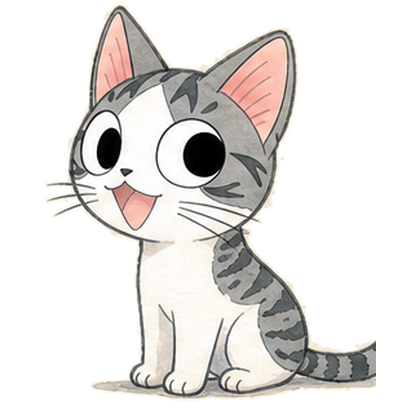
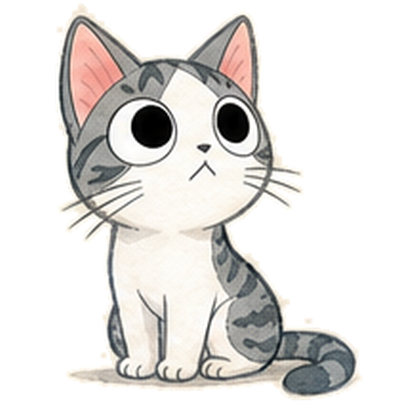
Polish pet proportions typography and ground contact

diff --git a/Sources/TianMiao/PetController.swift b/Sources/TianMiao/PetController.swift
@@ -139,7 +139,20 @@ final class PetController: NSObject {
         for menuItem in menu.items where menuItem.action != nil && menuItem.target == nil {
             menuItem.target = self
         }
+        applyCuteMenuTypography(to: menu)
         return menu
+    }
+
+    private func applyCuteMenuTypography(to menu: NSMenu) {
+        let font = NSFont(name: "Wawati SC", size: 14)
+            ?? NSFont(name: "Hannotate SC", size: 13.5)
+            ?? NSFont.systemFont(ofSize: 13.5, weight: .semibold)
+        for menuItem in menu.items where !menuItem.isSeparatorItem && !menuItem.title.isEmpty {
+            menuItem.attributedTitle = NSAttributedString(
+                string: menuItem.title,
+                attributes: [.font: font]
+            )
+        }
     }
 
     private func item(_ title: String, action: Selector, checked: Bool) -> NSMenuItem {
@@ -640,4 +653,3 @@ final class PetController: NSObject {
         NSApplication.shared.terminate(nil)
     }
 }
-

diff --git a/Sources/TianMiao/PetRenderer.swift b/Sources/TianMiao/PetRenderer.swift
@@ -111,10 +111,9 @@ final class CatView: NSView {
         rootLayer.sublayerTransform = CATransform3DIdentity
         rootLayer.sublayerTransform.m34 = -1.0 / 700.0
 
-        shadowLayer.backgroundColor = NSColor.black.withAlphaComponent(0.3).cgColor
-        shadowLayer.opacity = 0.7
-        shadowLayer.masksToBounds = true
-        rootLayer.addSublayer(shadowLayer)
+        // The character art already establishes foot contact. A synthetic oval
+        // looked like a platform stuck under the paws, so it is intentionally
+        // not attached to the visible layer tree.
 
         poseLayer.contentsGravity = .resizeAspect
         poseLayer.minificationFilter = .trilinear
@@ -800,4 +799,3 @@ final class CatView: NSView {
         }
     }
 }
-

diff --git a/Sources/TianMiao/PetWindows.swift b/Sources/TianMiao/PetWindows.swift
@@ -21,7 +21,9 @@ final class TianMiaoWindow: NSWindow {
 final class BubbleWindow: NSWindow {
     private let label = NSTextField(labelWithString: "")
     private let bubbleLayer = CAShapeLayer()
-    private let font = NSFont.systemFont(ofSize: 10.5, weight: .medium)
+    private let font = NSFont(name: "Wawati SC", size: 12)
+        ?? NSFont(name: "Hannotate SC", size: 11.5)
+        ?? NSFont.systemFont(ofSize: 11.5, weight: .semibold)
     private var hideWorkItem: DispatchWorkItem?
 
     init() {
@@ -109,4 +111,3 @@ final class BubbleWindow: NSWindow {
         setFrameOrigin(origin)
     }
 }
-

diff --git a/scripts/generate_pose_sprites.py b/scripts/generate_pose_sprites.py
@@ -15,8 +15,10 @@ CANVAS = (420, 420)
 
 # Each crop contains exactly one pose from the approved character sheet.
 POSE_BOXES = {
-    "sit_happy": (34, 20, 326, 374),
-    "sit_calm": (872, 18, 1175, 372),
+    # Use the compact seated pose from the same row as the movement poses.
+    # The former top-row seated poses had a much larger head, which caused a
+    # visible size jump whenever the cat started or stopped moving.
+    "sit_compact": (280, 532, 475, 815),
     "walk_contact": (455, 548, 690, 807),
     "walk_passing": (655, 546, 925, 806),
     "walk_reach": (850, 548, 1190, 811),
@@ -29,15 +31,14 @@ POSE_BOXES = {
 }
 
 SEQUENCES = {
-    "idle": ["sit_happy", "sit_calm"],
+    "idle": ["sit_compact", "sit_compact"],
     "walk": ["walk_contact", "walk_passing", "walk_reach", "walk_passing"],
     "jump": ["crouch", "walk_contact", "walk_passing", "crouch"],
     "sleep": ["sleep", "sleep"],
-    "groom": ["sit_calm", "groom", "groom", "sit_calm"],
-    "scratch": ["sit_calm", "scratch", "scratch", "sit_calm"],
-    "roll": ["sit_calm", "roll_side", "roll_back", "roll_side", "sit_calm"],
+    "groom": ["sit_compact", "groom", "groom", "sit_compact"],
+    "scratch": ["sit_compact", "scratch", "scratch", "sit_compact"],
+    "roll": ["sit_compact", "roll_side", "roll_back", "roll_side", "sit_compact"],
 }
-
 
 def main() -> int:
     sheet = Image.open(SHEET_PATH).convert("RGBA")
